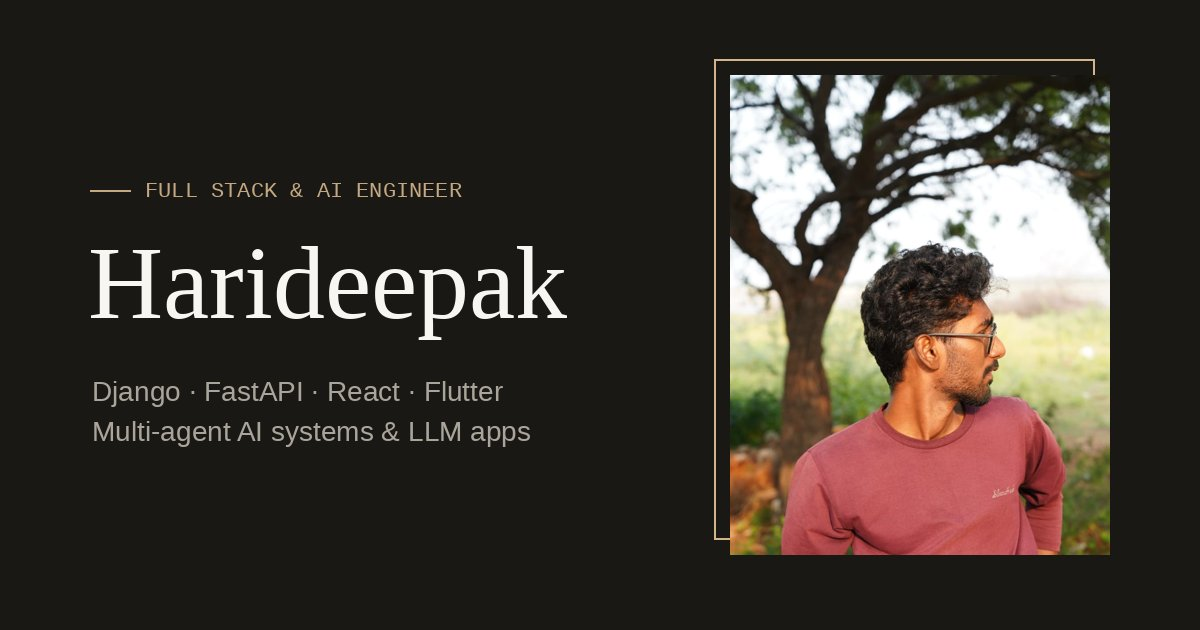
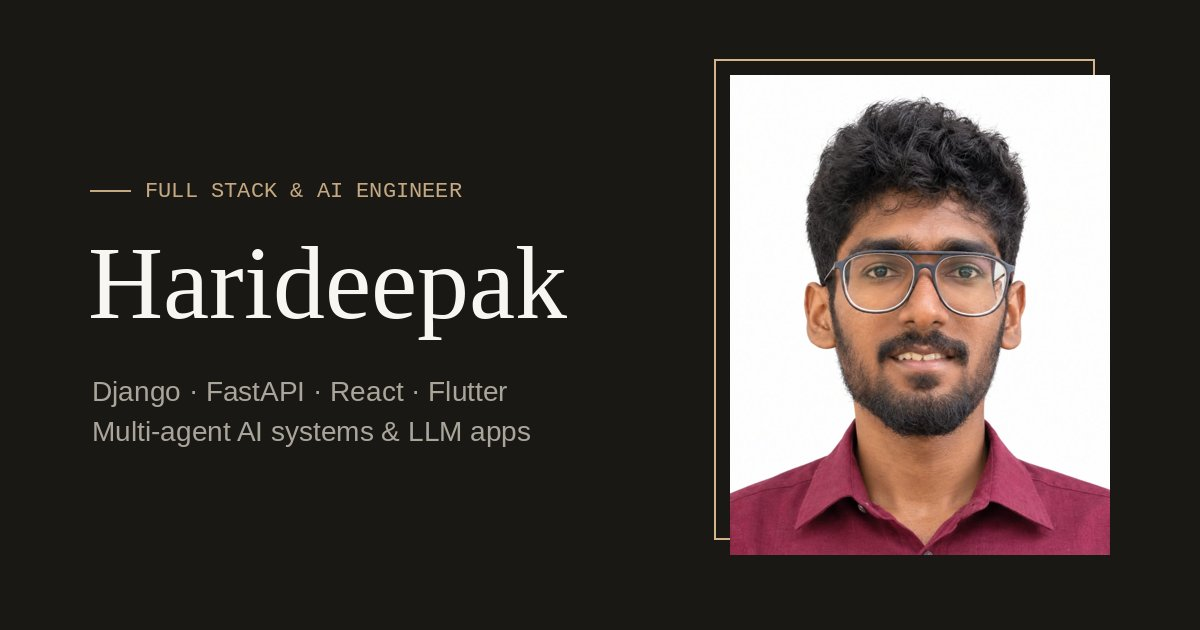
Update profile photo

Changed region(s): [[0.5858, 0.1206, 0.925, 0.9048], [0.1542, 0.6032, 0.4317, 0.6333]]

diff --git a/src/data.js b/src/data.js
@@ -10,7 +10,7 @@ export const profile = {
   title: 'Full Stack & AI Engineer',
   company: 'Krypsos',
   location: 'Based in India',
-  photo: '/portfolio dp.jpeg',
+  photo: '/img/profile.jpg',
   tagline: 'I build products end to end, from the API to the AI agent.',
   status: 'Currently building multi-agent AI systems',
   email: 'harideepak.s10@gmail.com',
